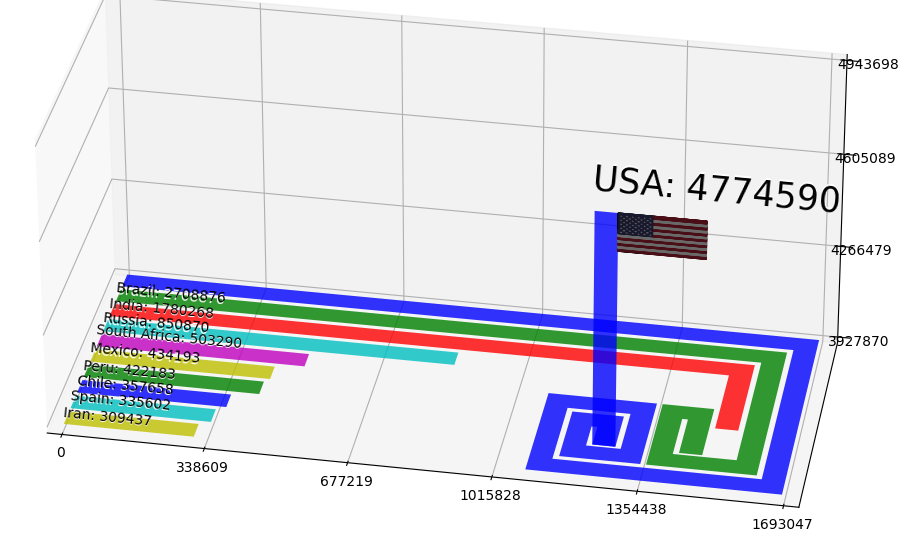
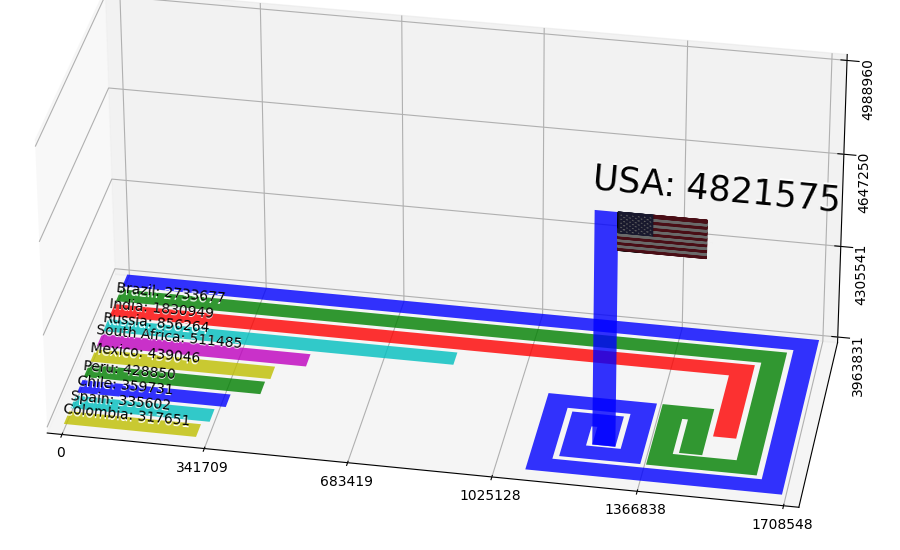
someChange

diff --git a/server.py b/server.py
@@ -1,0 +1,42 @@
+from bottle import route, run, template
+from Data.getData import getData
+from Graph.getAllGraph import getAllGraph
+from Twitter.sendTweet import send
+from datetime import datetime
+import time
+import state
+
+
+@route('/update')
+def update():
+    print('update!')
+    getData()
+    getAllGraph()
+    now = datetime.now()
+    updated =now.strftime("%m/%d/%Y, %H:%M:%S %p")
+    state.setState('last_updated', updated)
+    return template('<b>updated</b>!')
+
+@route('/send')
+def send():
+    updated = state.getState('last_updated')
+    tweet = 'Top 10 country, by confirmed case count. Updated '+ str(updated) + ' ET'
+    print('send tweet: ', tweet)
+
+    tweet = 'Top 10 country, by death count. Updated '+ str(updated) + ' ET'
+    print('send tweet: ', tweet)
+    now = datetime.now()
+    sent =now.strftime("%m/%d/%Y, %H:%M:%S %p")
+    state.setState('last_sent', sent)
+    state.setState('last_sent_ampm', now.strftime('%p'))
+
+    return template('<b>sent</b>!')
+
+@route('/reply/<id>')
+def reply(id):
+    updated = state.getState('last_updated')
+    tweet = 'Top 10 country, by confirmed case count. Updated ' + str(updated) + ' ET'
+    print('send tweet: ', tweet, '\n reply_to:', id)
+    return template('<b>replied!</b>!')
+
+run(host='localhost', port=23333)

diff --git a/push_script.py b/push_script.py
@@ -1,0 +1,38 @@
+import time
+import requests
+from datetime import datetime
+import state
+
+# #update
+# r = requests.get('http://localhost:23333/update')
+# if r.status_code != 200:
+#     raise ValueError('error updating')
+
+while True:
+    #update rules
+    do_thing = ''
+    #now!
+    now = datetime.now()
+    tap = now.strftime("%p")
+    #last update
+    lastUpdateTime = state.getState('last_updated')
+    lutDT = datetime.strptime(lastUpdateTime,"%m/%d/%Y, %H:%M:%S %p")
+    lastap = lutDT.strftime("%p")
+
+    if tap != lastap:
+        do_thing += 'update!'
+        r = requests.get('http://localhost:23333/update')
+
+
+    lastSent = datetime.strptime(state.getState('last_sent'),"%m/%d/%Y, %H:%M:%S %p")
+    lastSentAMPM = state.getState('last_sent_ampm')
+
+    if tap != lastSentAMPM:
+        do_thing += 'send!'
+        r = requests.get('http://localhost:23333/send')
+
+
+    #he send tweets!
+
+    print(now.strftime("%m/%d/%Y, %H:%M:%S %p") + ': '+ do_thing)
+    time.sleep(60)

diff --git a/state.py b/state.py
@@ -1,0 +1,15 @@
+import json
+
+def setState(key, value):
+    with open('state.json', 'rb') as fp:
+        state = json.load(fp)
+
+    state[key] = value
+    with open('state.json', 'w') as fp:
+        json.dump(state, fp)
+
+def getState(key):
+    with open('state.json', 'rb') as fp:
+        state = json.load(fp)
+
+    return state[key]

diff --git a/Graph/getGraph.py b/Graph/getGraph.py
@@ -77,6 +77,8 @@ def getGraph(key = 'confirmed'):
     ax.set_zticks([0, 5, 10, 15])
     add = p.t[1][1] - height*u
     ax.set_zticklabels(np.array([int(i * u * 5 + add)  for i in range(4)]))
+    ax.tick_params(axis="z", labelrotation=90)
+
     ax.view_init(30, -80)
 
     # plt.show()

diff --git a/Data/getData.py b/Data/getData.py
@@ -6,7 +6,7 @@ from API_KEY import *
 
 
 def getData():
-    with open('countries.json', 'rb') as fp:
+    with open('Data/countries.json', 'rb') as fp:
         con = json.load(fp)
 
 

diff --git a/README.md b/README.md
@@ -1,0 +1,15 @@
+#deploy
+need to change a matplotlib file:
+```
+site-packages\mpl_toolkits\mplot3d\axes3d.py
+```
+
+```
+get_proj
+```
+
+```
+xmin, xmax = np.divide(self.get_xlim3d(), self.pbaspect[0])
+ymin, ymax = np.divide(self.get_ylim3d(), self.pbaspect[1])
+zmin, zmax = np.divide(self.get_zlim3d(), self.pbaspect[2])
+```
